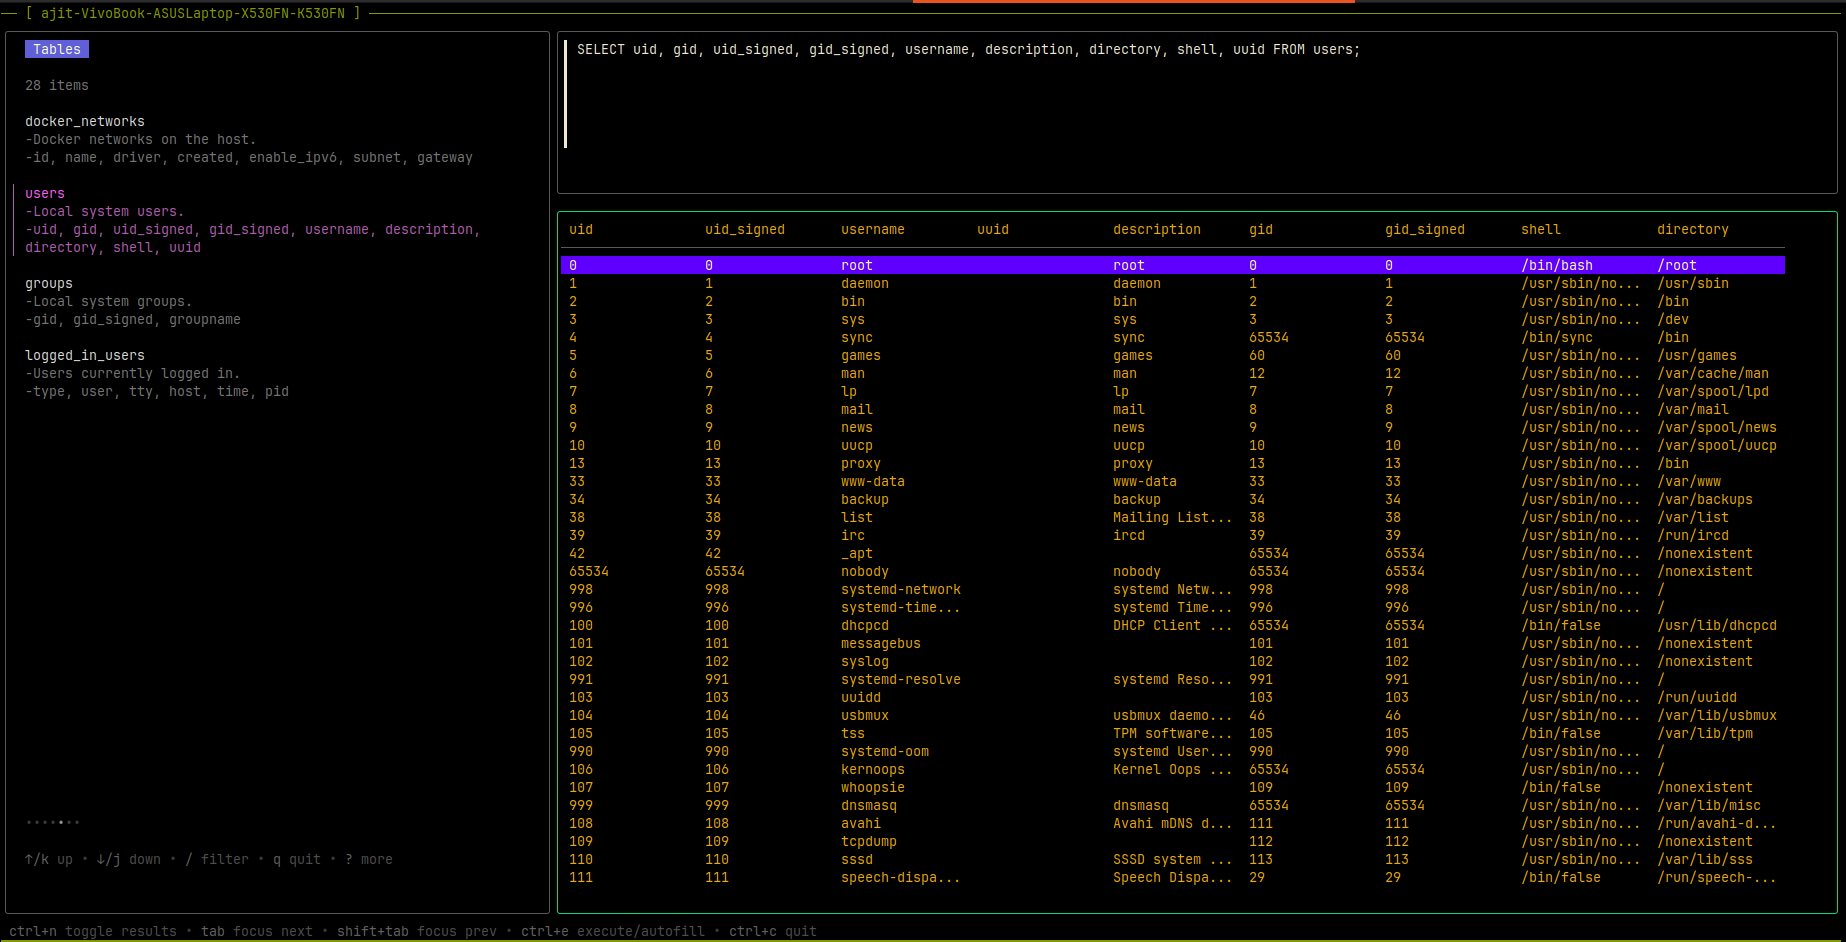
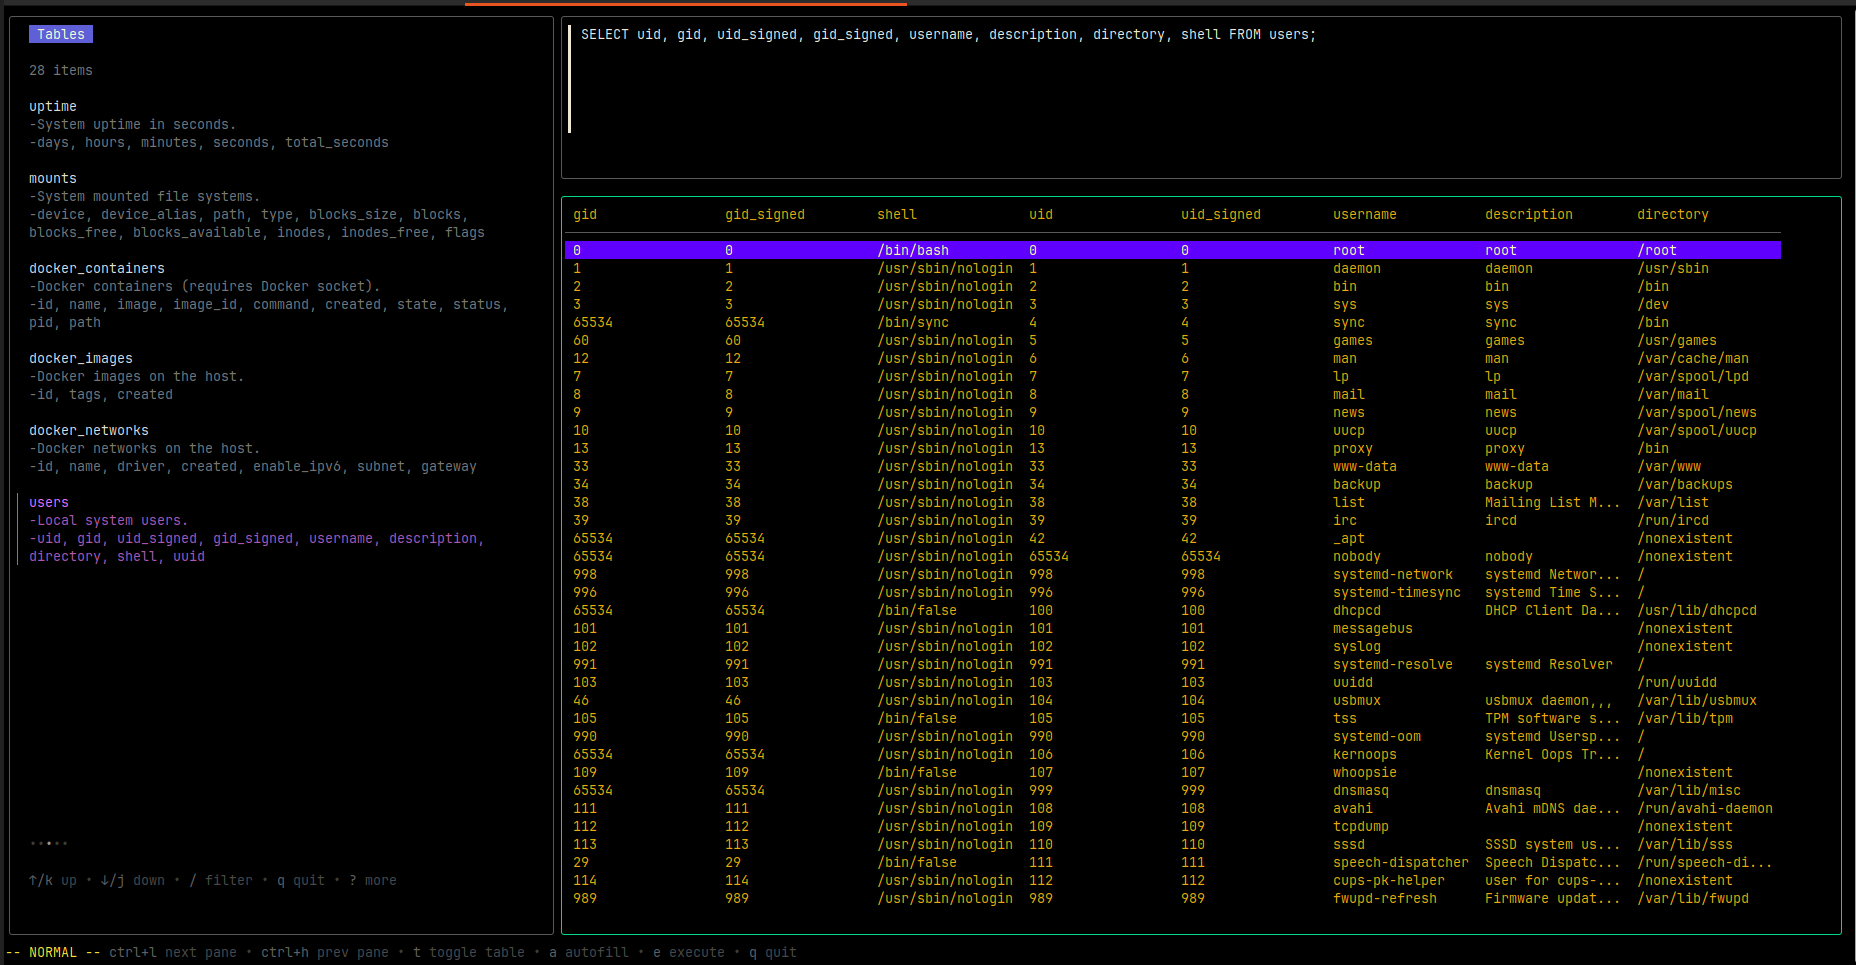
feat: add support for aarch64 deployment and update docs accordingly

Changed region(s): [[0.0, 0.0, 1.0, 1.0]]

diff --git a/internal/tui/views/results/results.go b/internal/tui/views/results/results.go
@@ -12,8 +12,8 @@ import (
 )
 
 const (
-	initialContent   = "Awaiting Query...\nPress Tab to navigate, Enter to execute." // viewport placeholder before first query
-	tableHeaderLines = 2                                                             // border + column header height subtracted from pane height
+	initialContent   = "Awaiting Query...\nPress ctrl+h, ctrl+l to navigate, a to autofill query from sidebar, i to edit query, esc and e to execute, t to toggle." // viewport placeholder before first query
+	tableHeaderLines = 2                                                                                                                                            // border + column header height subtracted from pane height
 )
 
 var (

diff --git a/docs/remote_deployment.md b/docs/remote_deployment.md
@@ -11,7 +11,7 @@ LazyOS communicates with osqueryd over a local UNIX socket. Rather than modifyin
 The provisioning pipeline has three stages:
 
 1. **OpenTofu** (optional) — provisions an EC2 instance and writes a dynamic Ansible inventory
-2. **Ansible** — installs osqueryd, configures the socket path with a systemd drop-in, and starts the service
+2. **Ansible** — auto-detects the CPU architecture, installs osqueryd (via apt/yum on x86_64, or from the official aarch64 tarball on ARM), configures the socket path with a systemd drop-in, and starts the service
 3. **SSH Tunnel** — forwards the remote socket to a local file path so LazyOS can use it
 
 ### osqueryd Daemon Quirks
@@ -144,6 +144,9 @@ ansible-playbook -i inventory.ini playbook.yml -u ubuntu --key-file ~/.ssh/lazyo
 ansible-playbook -i inventory.ini playbook.yml -u <ssh-user> --key-file ~/.ssh/your-key
 ```
 
+![Ansible playbook execution](../assets/ansi_script_exec.png)
+*Successful execution of the Ansible playbook, automatically configuring and starting osqueryd on the remote node.*
+
 The playbook performs the following steps:
 
 1. **Detects the OS family** (`Debian` for Ubuntu/Debian, `RedHat` for Amazon Linux)
@@ -238,6 +241,21 @@ go run ./cmd/lazyos --osquery-socket /tmp/lazyos_remote.sock
 ```
 
 LazyOS is completely unaware that the socket is tunneled across a network. It opens, reads, and writes to the local file path just as it would with a local osqueryd. SSH handles all encryption, transport, and forwarding transparently.
+
+Once connected, execute queries against the remote host directly from the TUI.
+
+This works on any Linux machine with SSH access. The role auto-detects the CPU architecture and falls back to a tarball installation when no osquery apt repository is available for that architecture:
+
+![SSH into a Raspberry Pi 5 running Ubuntu 24.04](../assets/raspberrypi5_ssh.png)
+*SSH connectivity to a Raspberry Pi 5 — the role installs osqueryd from the official aarch64 tarball when no apt repo exists for that platform.*
+
+Once the instance is reachable, an AI agent like [opencode](https://opencode.ai) can generate osquery SQL tailored to your EC2 infrastructure. Describe what you need in plain English:
+
+![Asking opencode about EC2 instance metadata](../assets/aws_ec2_AIagent_query.png)
+*Prompting an AI agent with a natural-language request about the provisioned AWS EC2 instance.*
+
+![opencode generates the EC2 query](../assets/aws_ec2_AIagent_response.png)
+*The agent responds with the osquery SQL — paste it directly into LazyOS to execute against the remote node.*
 
 ---
 
